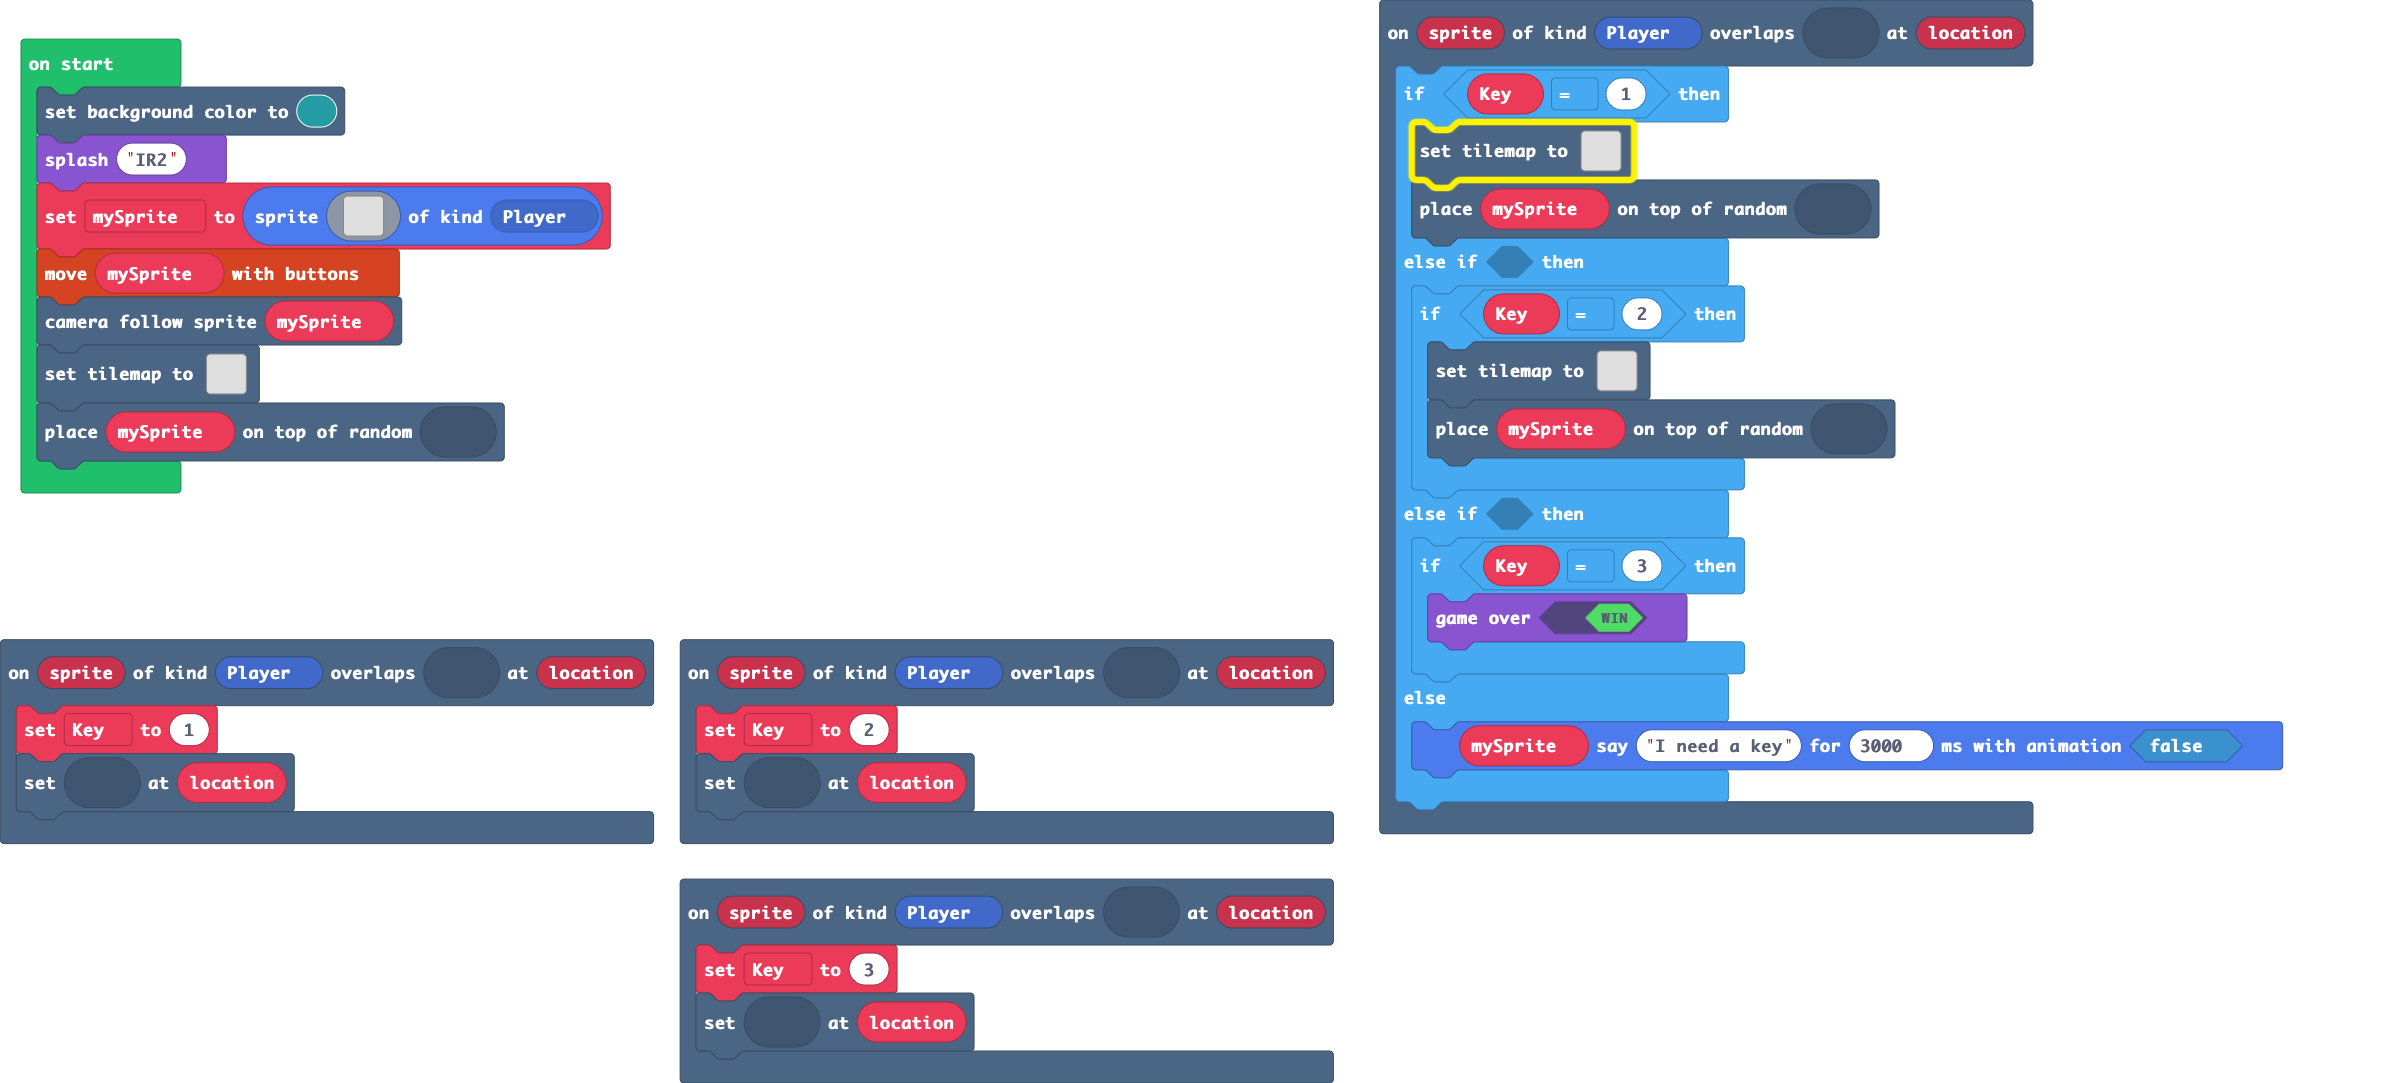
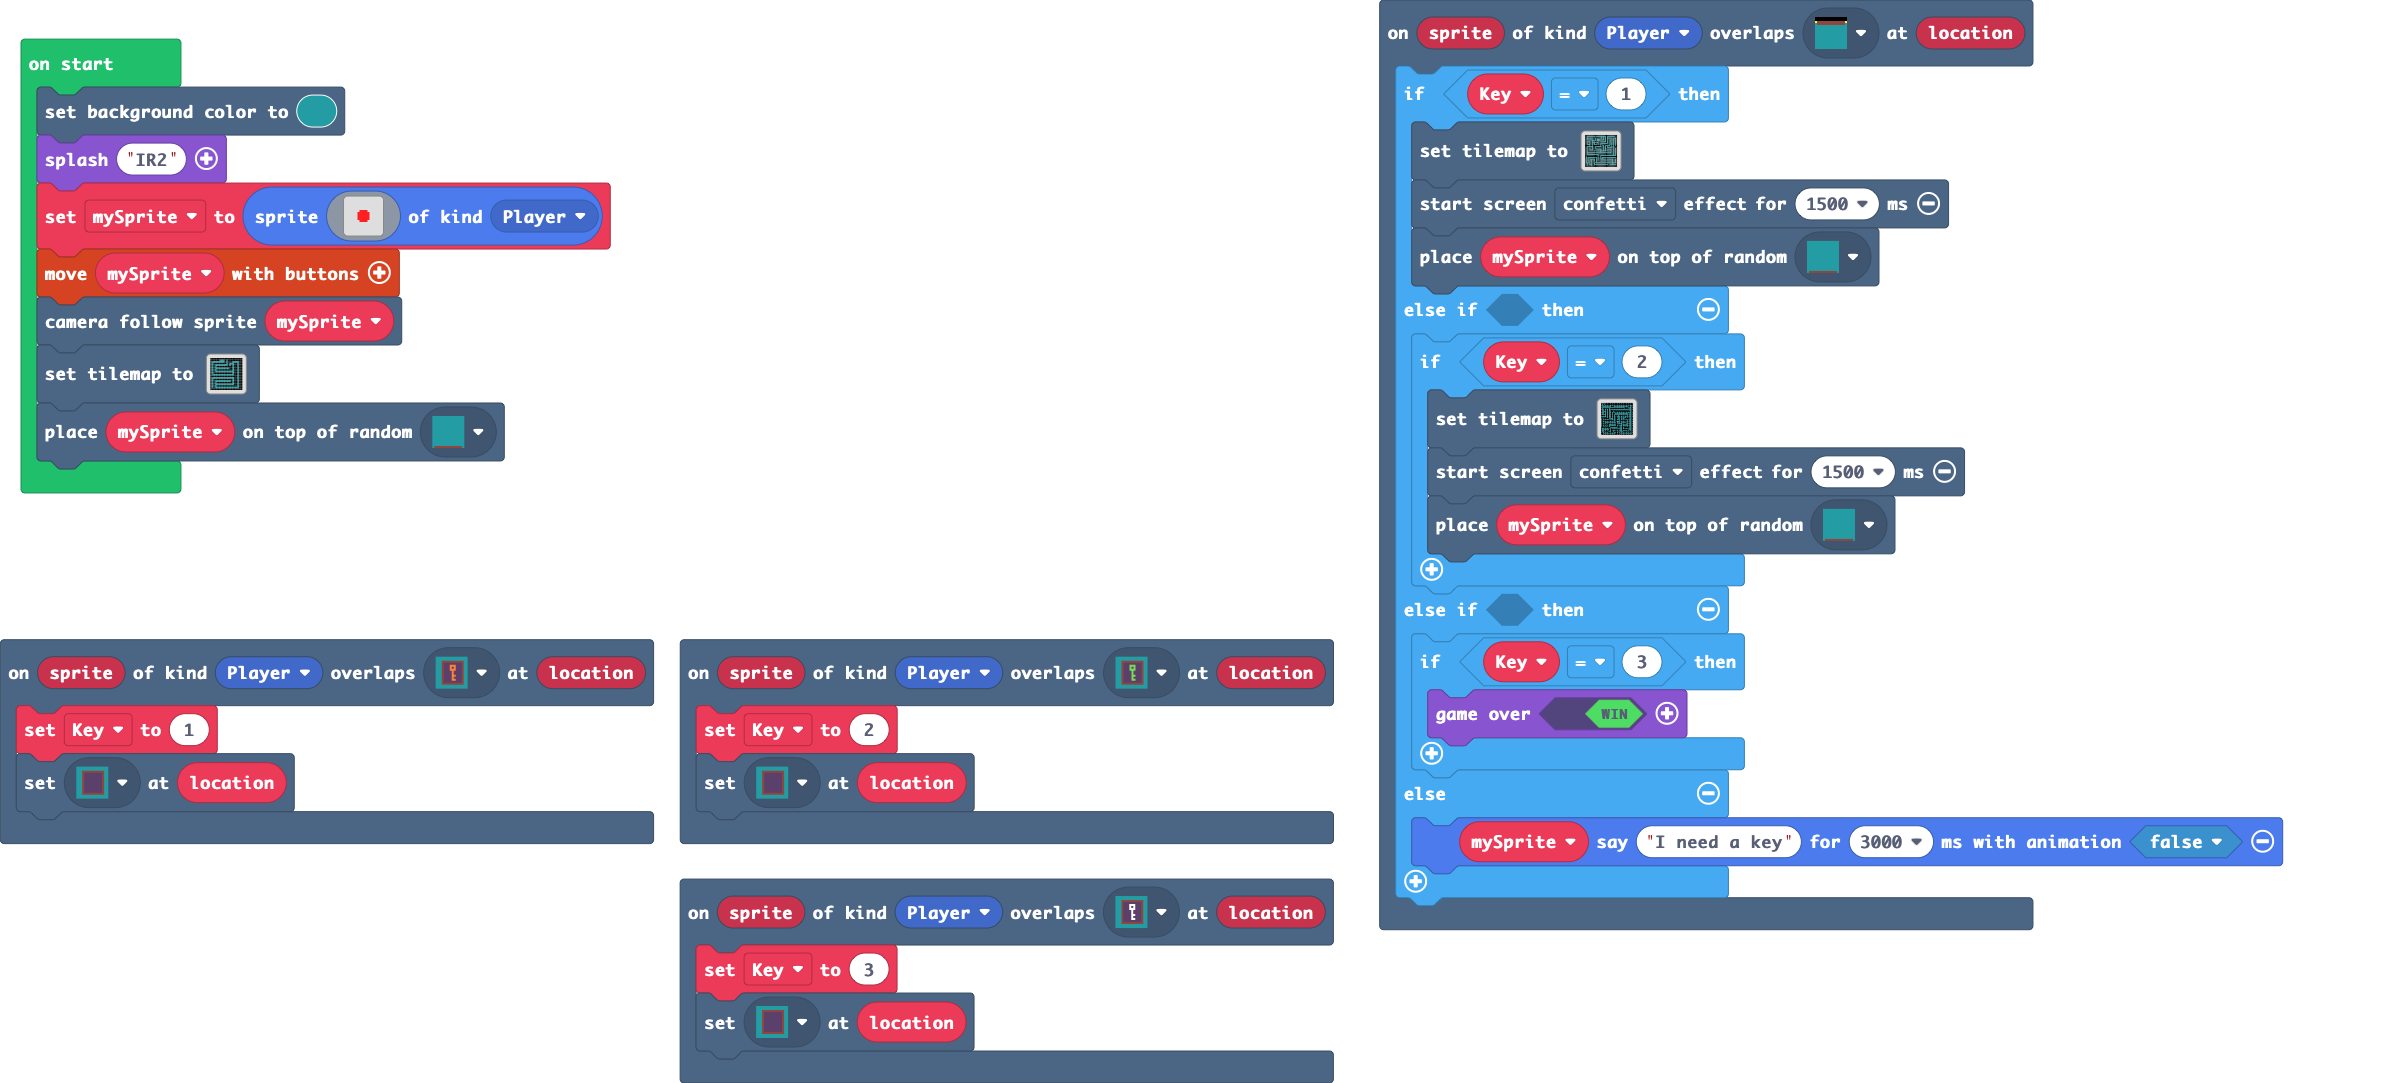
Update main.blocks, main.ts

diff --git a/main.ts b/main.ts
@@ -5,10 +5,12 @@ scene.onOverlapTile(SpriteKind.Player, assets.tile`myTile1`, function (sprite, l
 scene.onOverlapTile(SpriteKind.Player, assets.tile`myTile6`, function (sprite, location) {
     if (Key == 1) {
         tiles.setTilemap(tilemap`level5`)
+        effects.confetti.startScreenEffect(1500)
         tiles.placeOnRandomTile(mySprite, assets.tile`myTile2`)
     } else if (false) {
         if (Key == 2) {
             tiles.setTilemap(tilemap`level1`)
+            effects.confetti.startScreenEffect(1500)
             tiles.placeOnRandomTile(mySprite, assets.tile`myTile2`)
         }
     } else if (false) {
